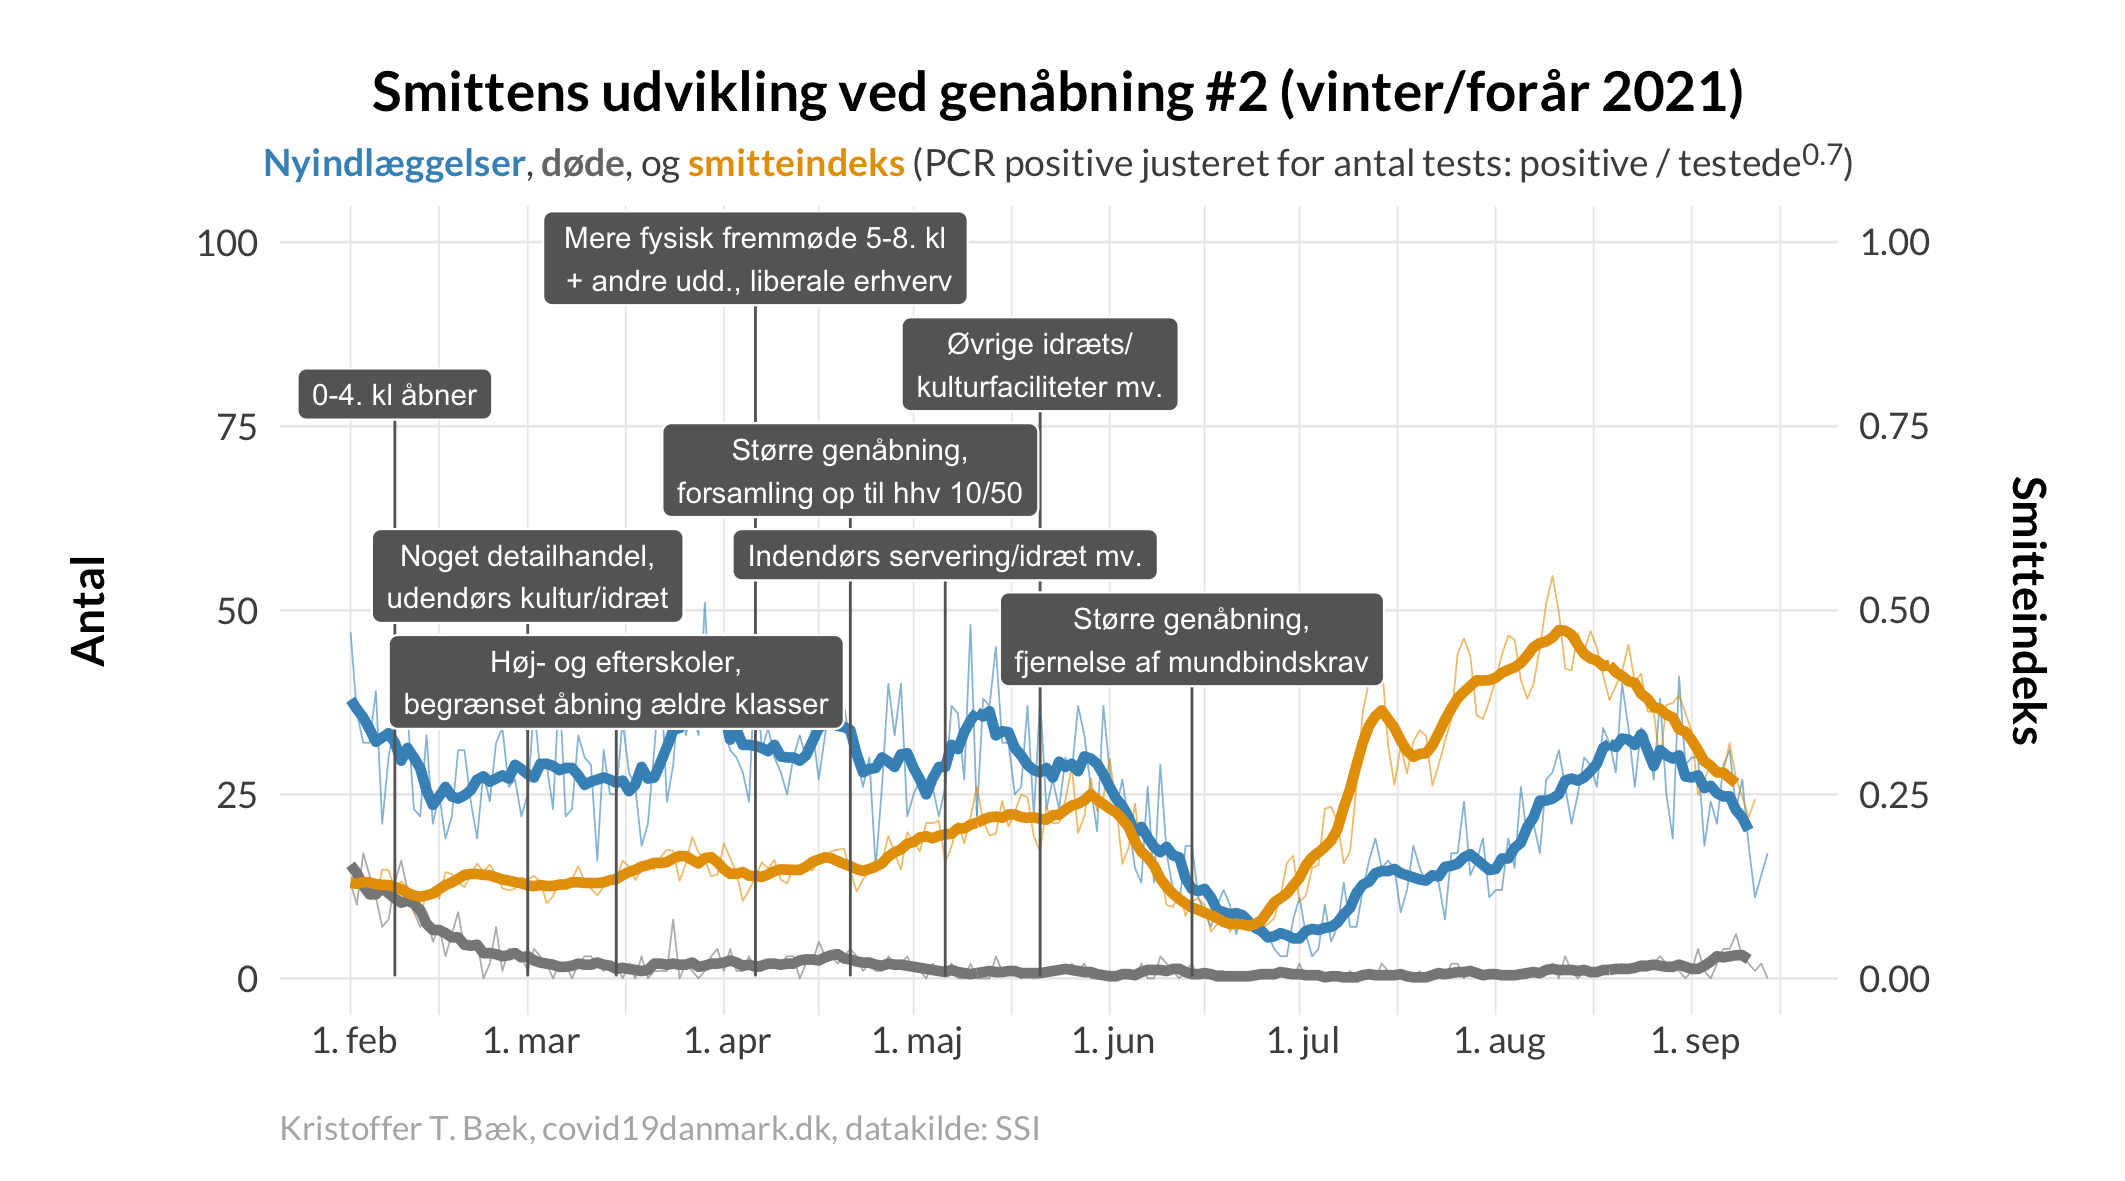
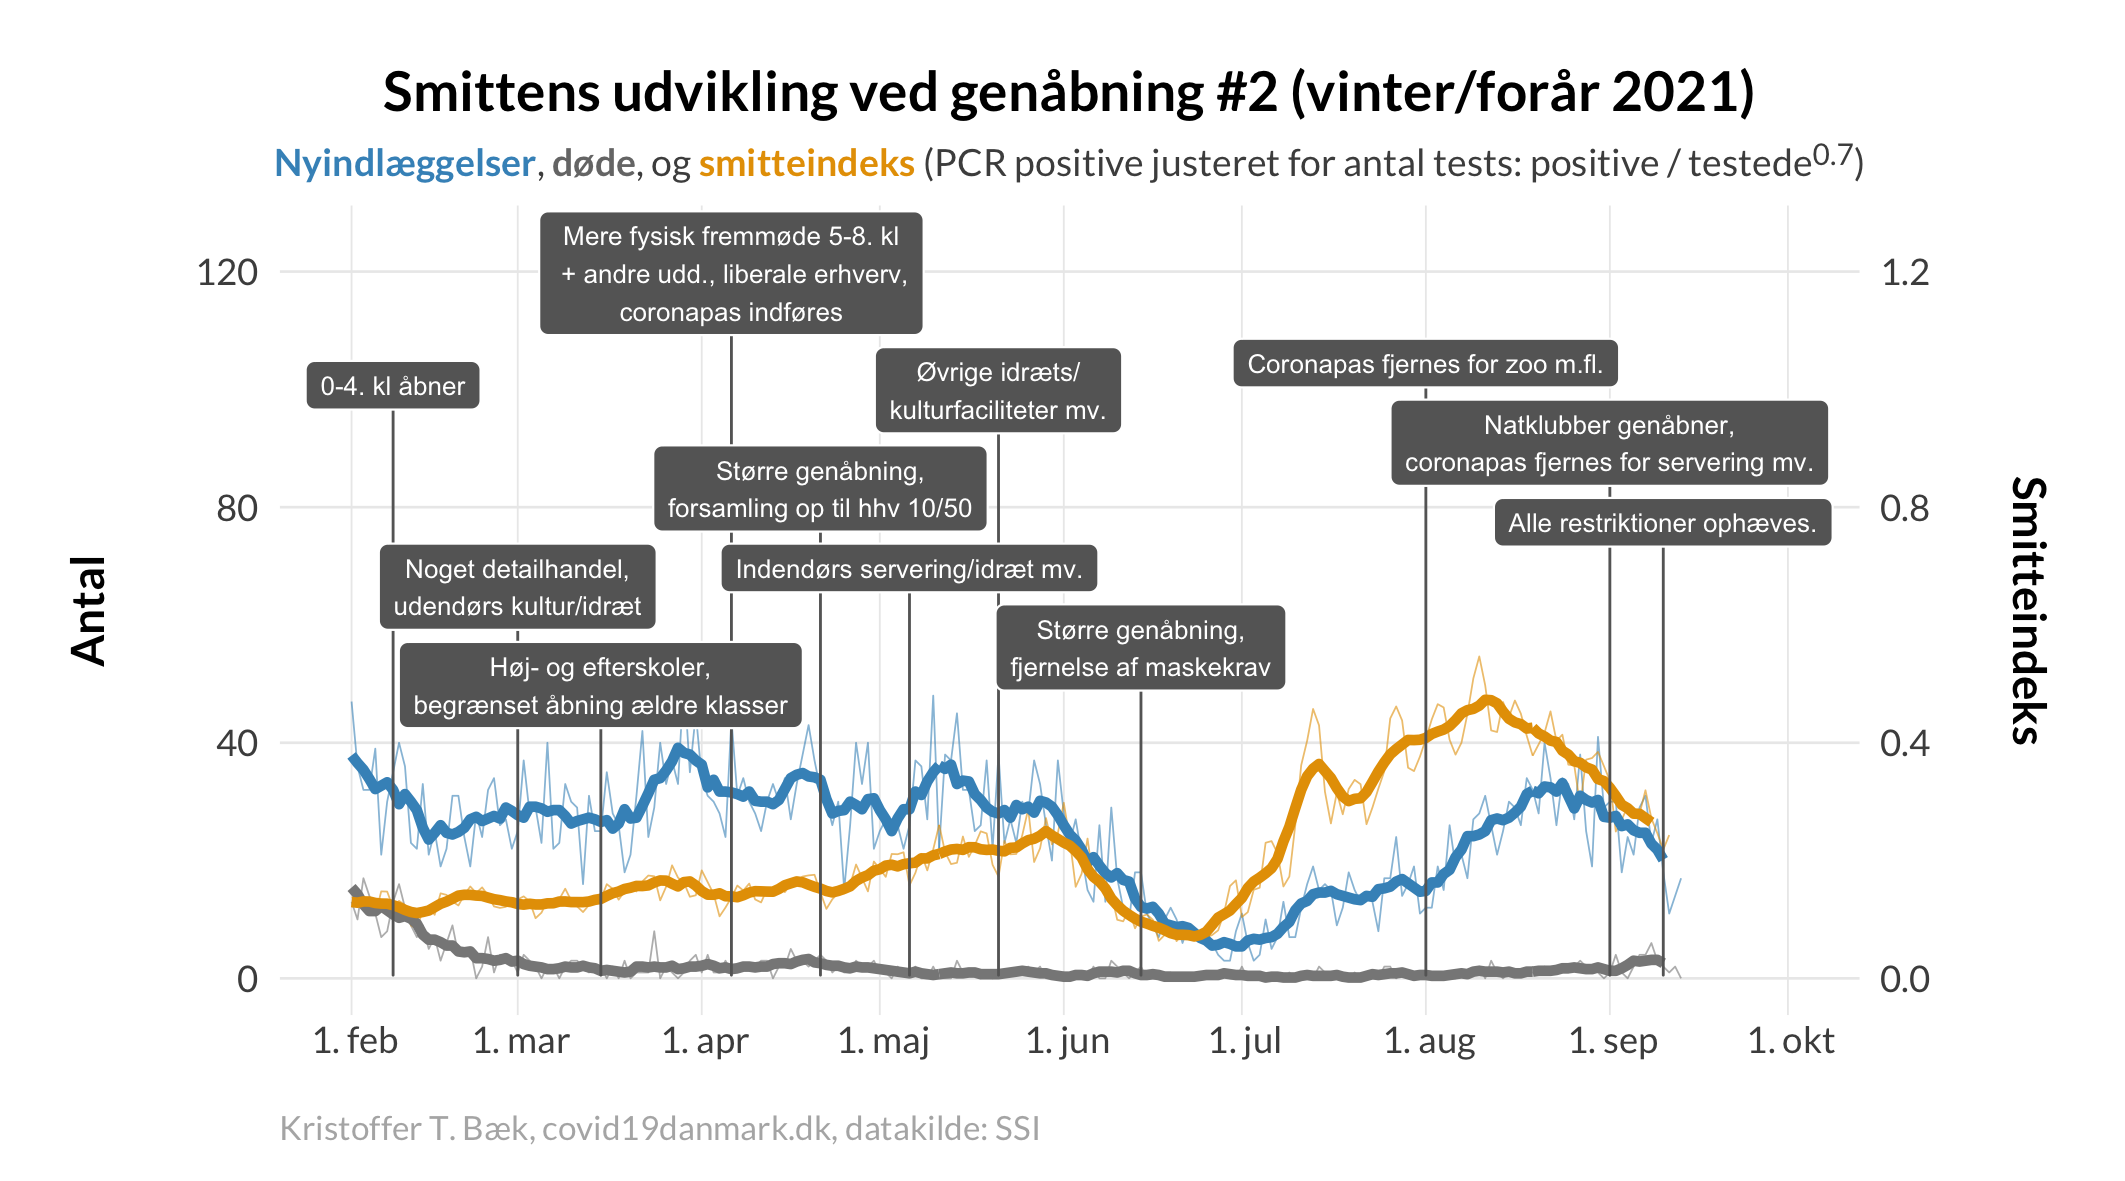
Update plots

diff --git a/tiltag.md b/tiltag.md
@@ -45,6 +45,11 @@
 | 6. maj | Indendørsservering på restauranter og cafeer mv., konferencer, spillesteder, teatre og biografer mod forevisning af coronapas. Indendørs idræt i organiseret regi for voksne over 18 år mod forevisning af coronapas. |
 | 21. maj | Der åbnes for alle resterende idræts- fritids- og foreningsaktiviteter mod forevisning af coronapas. Indendørsfaciliteter i forlystelsesparker, zoo, legelande mv. genåbnes mod forevisning af coronapas. Daghøjskoler og aftenskoler genåbnes under smitteforebyggende tiltag.  |
 | 14. juni | Krav om mundbind/visir ophæves undtagen i den kollektive transport, når man ikke sidder ned.  Åbningstiden på serveringssteder udvides til kl.24. Samtidig åbnes der generelt (dvs. også i detailhandlen) for salg af alkohol indtil kl. 24. Krav om coronapas ophæves for biblioteker, mv. |
+| 15. juli | Åbningstider for serveringssteder udvides til kl. 2. |
+| 13. august | Krav om mundbind i offentlig transport ophæves. |
+| 1. august | Krav om coronapas ophæves for forlystelsesparker, zoo, messer mv. |
+| 1. september | Forsamlingsloft for større forsamlinger ophæves. Natklubber genåbner mod krav om coronapas. Krav om coronapas ophæves for serveringssteder, badelande mv. |
+| 10. september | Alle tilbageværende restriktioner fjernes. |
 
 
 
